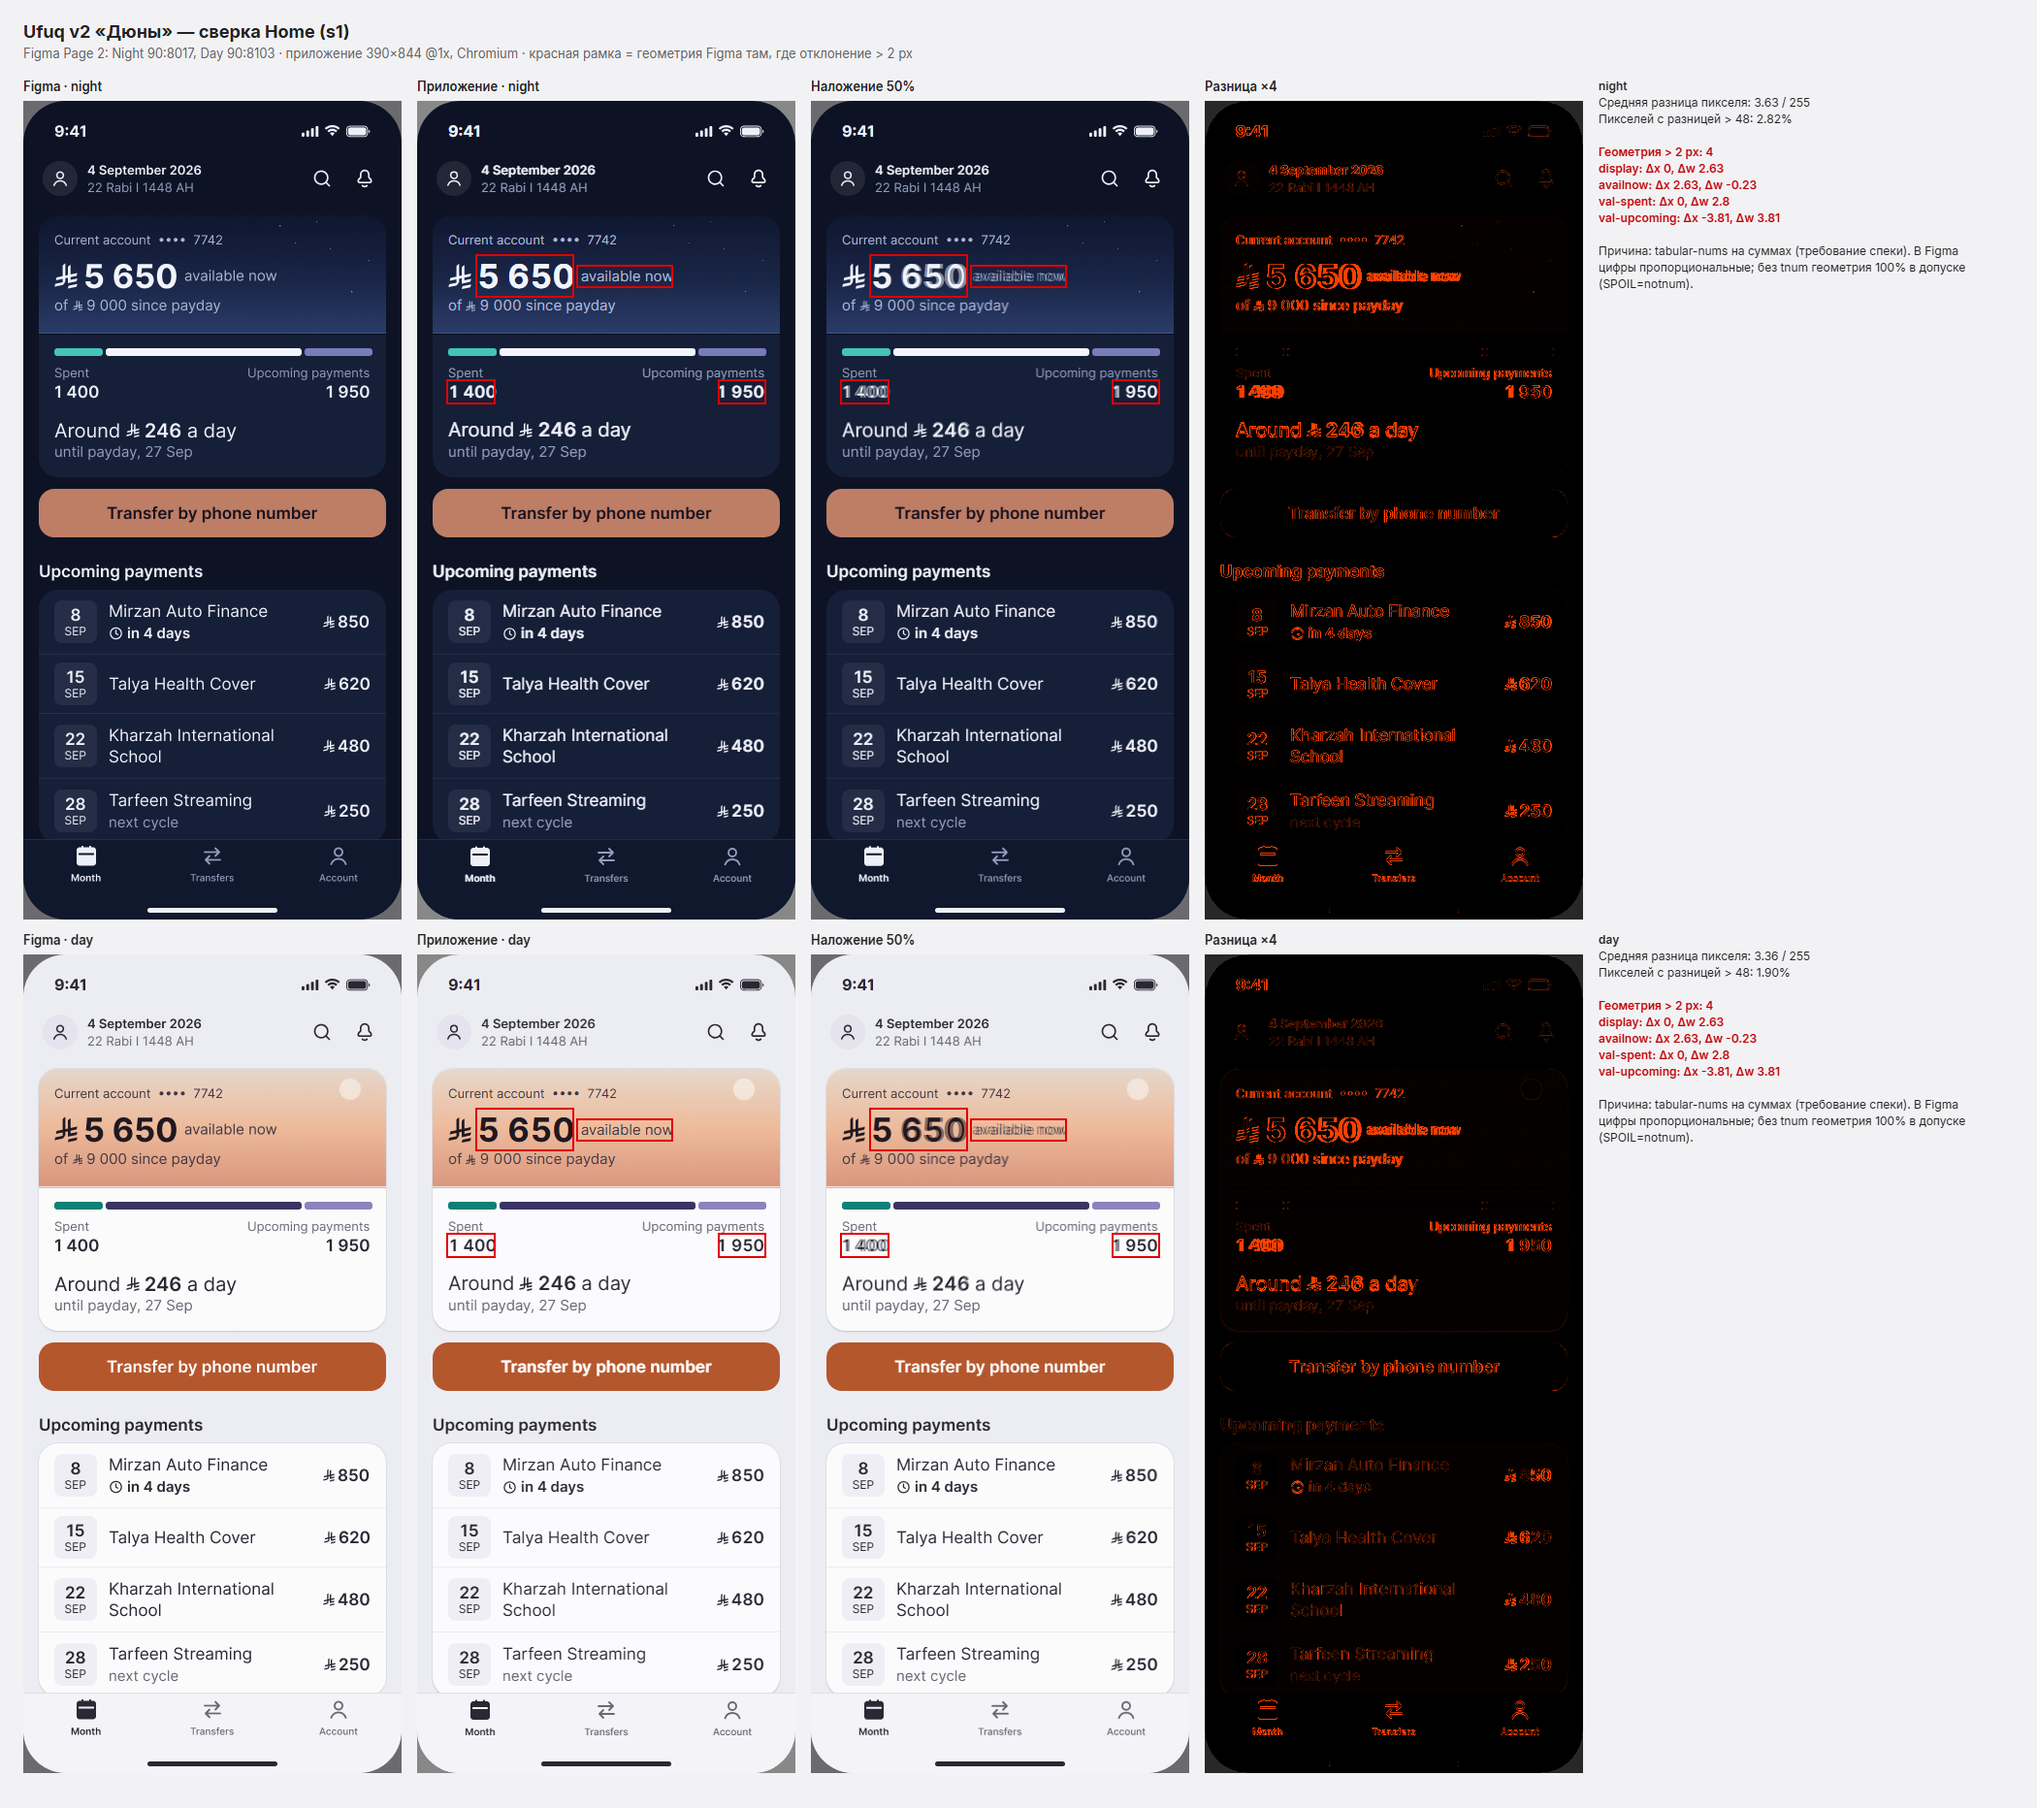
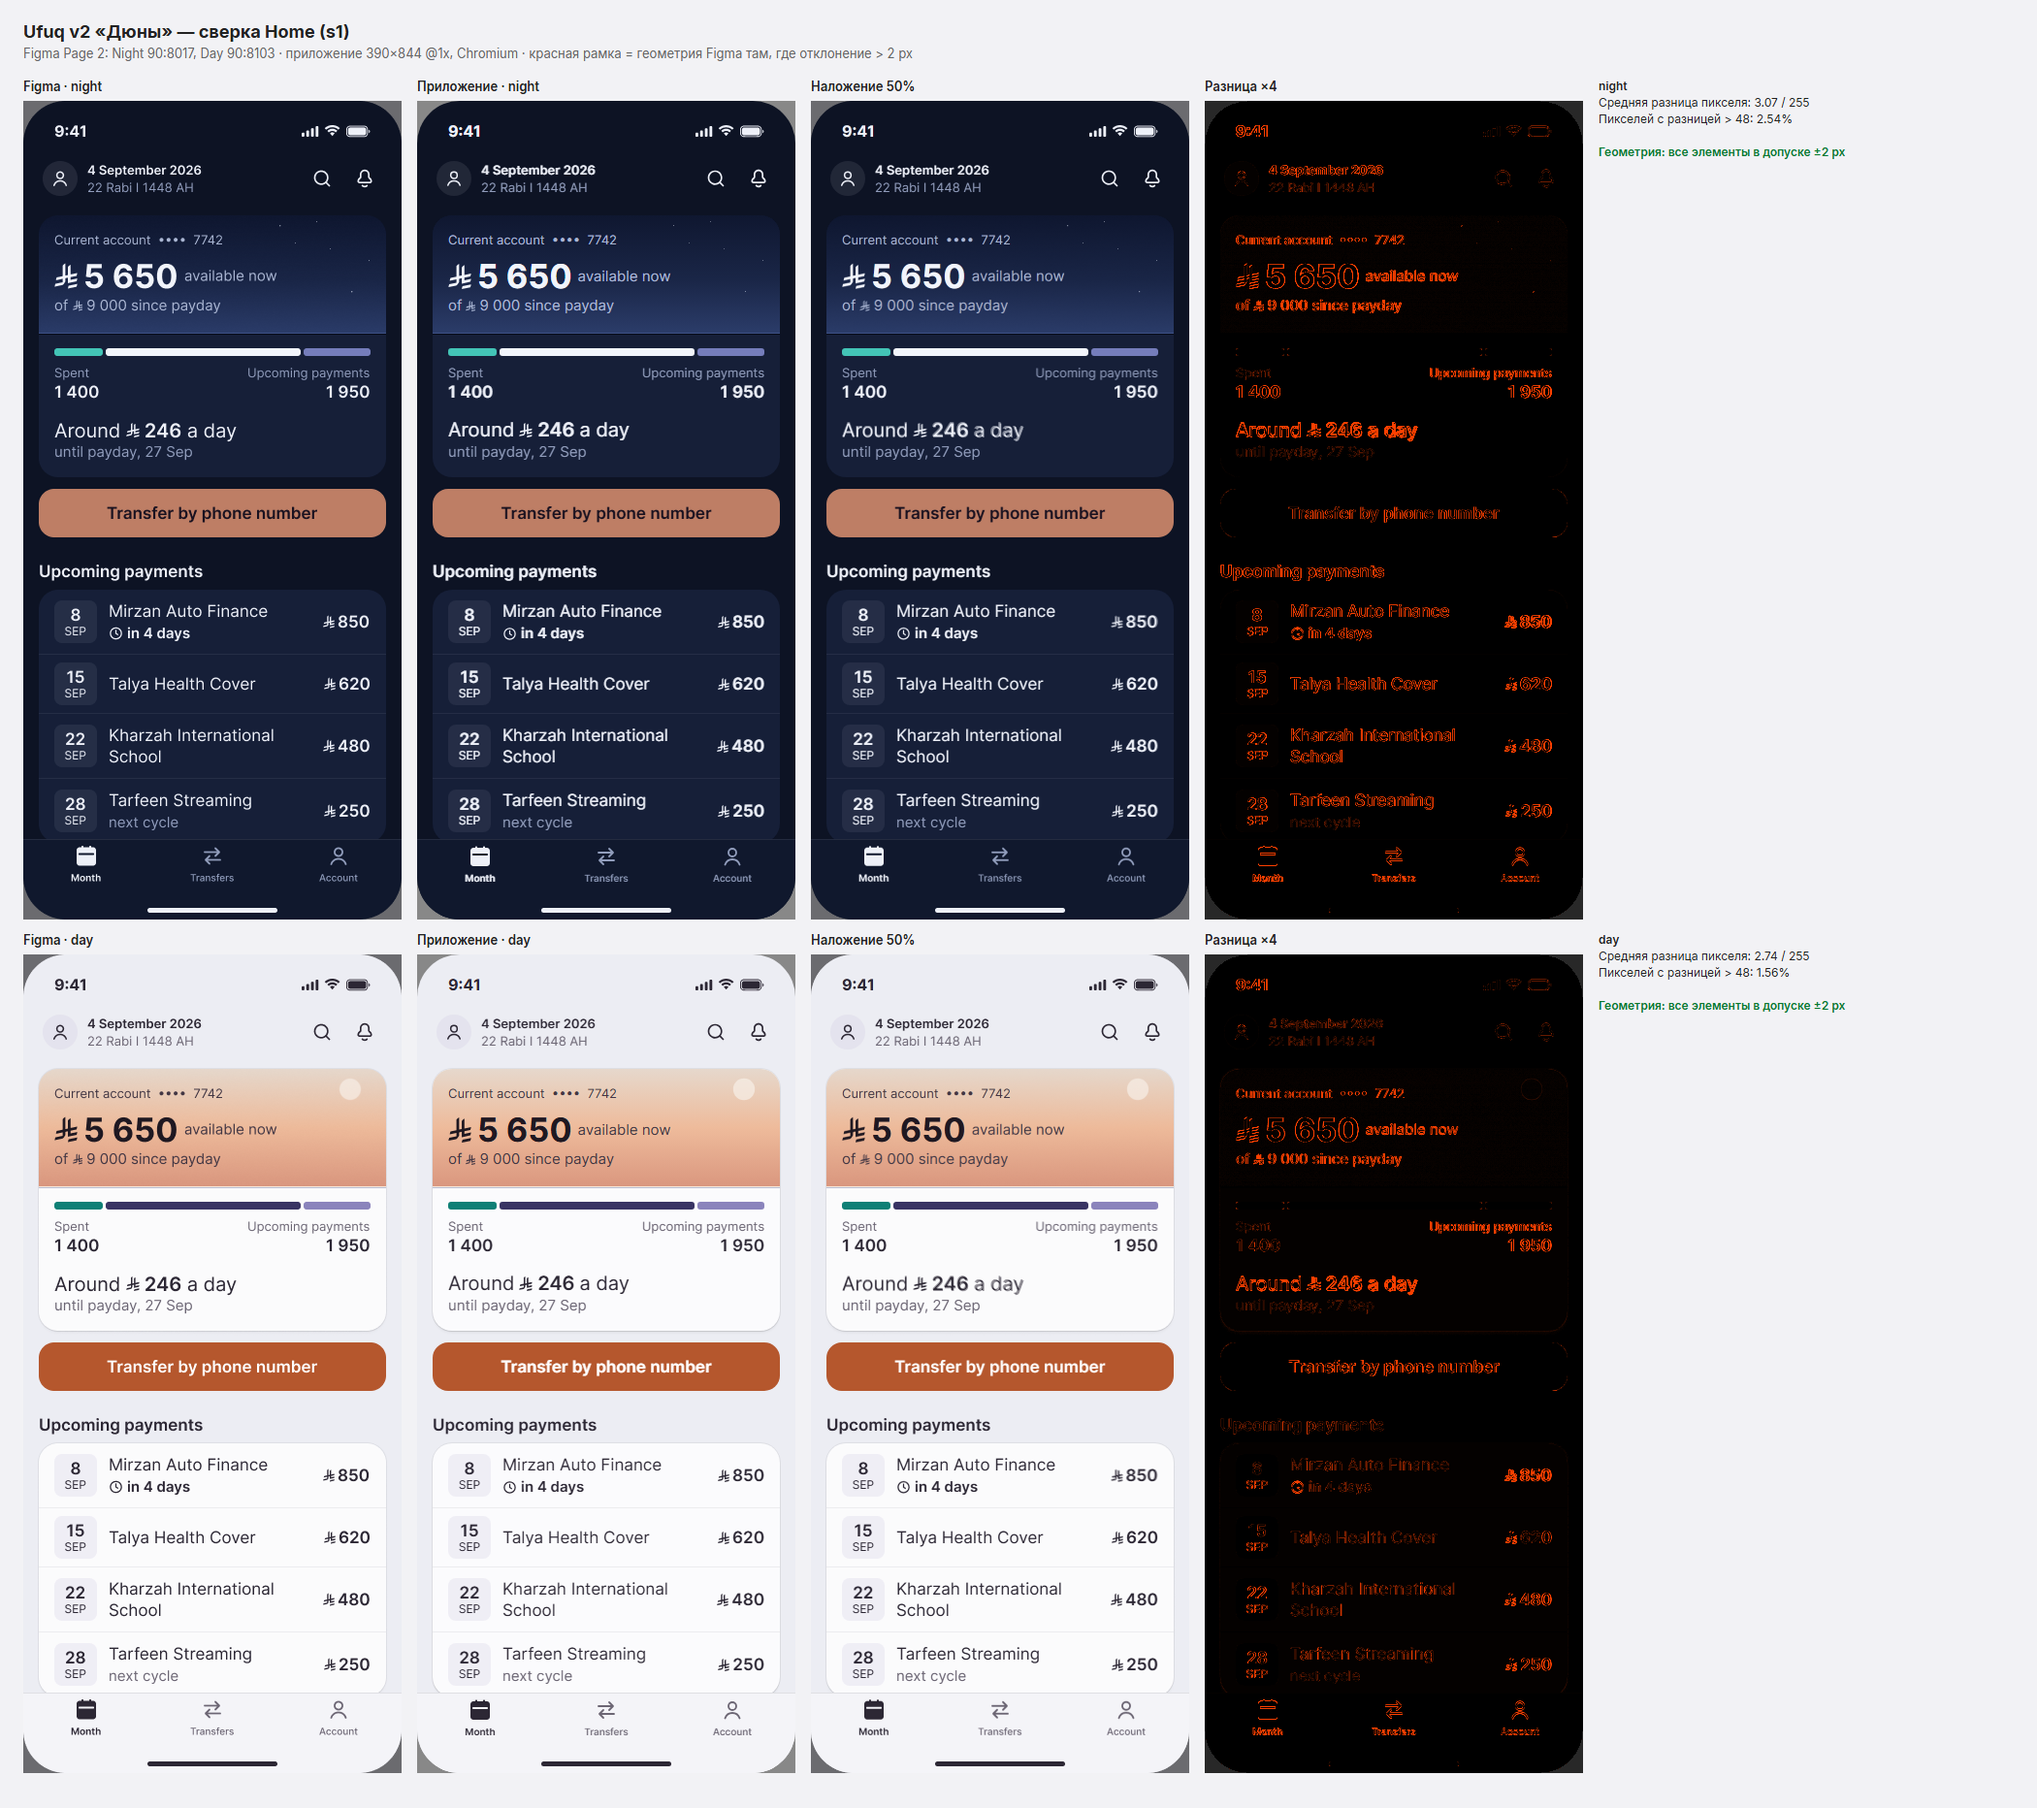
s1-fix: без tabular-nums (Figma главнее), полоса 326 по Figma, страж SPOIL=tnum

diff --git a/index.html b/index.html
@@ -68,13 +68,13 @@
             <span class="t-footnote muted caption" data-k="caption">Current account  ••••  7742</span>
             <div class="amount">
               <svg width="24" height="26" data-k="riyal24" aria-hidden="true"><use href="#i-riyal"/></svg>
-              <span class="t-large num" data-k="display">5 650</span>
+              <span class="t-large" data-k="display">5 650</span>
               <span class="t-sub muted" data-k="availnow">available now</span>
             </div>
             <div class="of-total muted">
               <span class="t-sub" data-k="of">of</span>
               <svg width="10.1538" height="11" data-k="riyal10" aria-hidden="true"><use href="#i-riyal"/></svg>
-              <span class="t-sub" data-k="since"><span class="num">9 000</span> since payday</span>
+              <span class="t-sub" data-k="since"><span>9 000</span> since payday</span>
             </div>
           </div>
 
@@ -92,17 +92,17 @@
             <div class="bar-labels">
               <div class="l-spent">
                 <span class="t-footnote muted" data-k="lbl-spent">Spent</span>
-                <span class="t-headline num" data-k="val-spent">1 400</span>
+                <span class="t-headline" data-k="val-spent">1 400</span>
               </div>
               <div class="l-upcoming">
                 <span class="t-footnote muted" data-k="lbl-upcoming">Upcoming payments</span>
-                <span class="t-headline num" data-k="val-upcoming">1 950</span>
+                <span class="t-headline" data-k="val-upcoming">1 950</span>
               </div>
             </div>
             <div class="phrase">
               <span class="t-title3" data-k="around">Around</span>
               <svg width="13.8462" height="15" data-k="riyal14" aria-hidden="true"><use href="#i-riyal"/></svg>
-              <span class="t-title3-s num" data-k="perday">246</span>
+              <span class="t-title3-s" data-k="perday">246</span>
               <span class="t-title3" data-k="aday">a day</span>
             </div>
             <span class="t-sub until" data-k="until">until payday, 27 Sep</span>
@@ -119,19 +119,19 @@
               <span class="t-body">Mirzan Auto Finance</span>
               <span class="pay-desc"><svg width="15" height="15" aria-hidden="true"><use href="#i-clock"/></svg><span class="t-sub-s">in 4 days</span></span>
             </div>
-            <span class="pay-sum"><svg width="12" height="13" aria-hidden="true"><use href="#i-riyal"/></svg><span class="t-headline num">850</span></span>
+            <span class="pay-sum"><svg width="12" height="13" aria-hidden="true"><use href="#i-riyal"/></svg><span class="t-headline">850</span></span>
           </div>
           <div class="divider"></div>
           <div class="pay" data-k="pay2">
             <div class="date-tile"><b class="t-headline">15</b><span class="t-caption">SEP</span></div>
             <div class="pay-head"><span class="t-body">Talya Health Cover</span></div>
-            <span class="pay-sum"><svg width="12" height="13" aria-hidden="true"><use href="#i-riyal"/></svg><span class="t-headline num">620</span></span>
+            <span class="pay-sum"><svg width="12" height="13" aria-hidden="true"><use href="#i-riyal"/></svg><span class="t-headline">620</span></span>
           </div>
           <div class="divider"></div>
           <div class="pay" data-k="pay3">
             <div class="date-tile"><b class="t-headline">22</b><span class="t-caption">SEP</span></div>
             <div class="pay-head"><span class="t-body">Kharzah International School</span></div>
-            <span class="pay-sum"><svg width="12" height="13" aria-hidden="true"><use href="#i-riyal"/></svg><span class="t-headline num">480</span></span>
+            <span class="pay-sum"><svg width="12" height="13" aria-hidden="true"><use href="#i-riyal"/></svg><span class="t-headline">480</span></span>
           </div>
           <div class="divider"></div>
           <div class="pay" data-k="pay4">
@@ -140,7 +140,7 @@
               <span class="t-body">Tarfeen Streaming</span>
               <span class="pay-desc muted"><span class="t-sub">next cycle</span></span>
             </div>
-            <span class="pay-sum"><svg width="12" height="13" aria-hidden="true"><use href="#i-riyal"/></svg><span class="t-headline num">250</span></span>
+            <span class="pay-sum"><svg width="12" height="13" aria-hidden="true"><use href="#i-riyal"/></svg><span class="t-headline">250</span></span>
           </div>
         </div>
 

diff --git a/app.js b/app.js
@@ -6,8 +6,8 @@ const SPENT = 1400;
 const UPCOMING = 1950;
 const AVAILABLE = OPENING - SPENT - UPCOMING; // 5 650
 
-// Полоса: 322 px под три сегмента + два зазора по 3 = 328, как фрейм Bar в Figma.
-const BAR_SEGMENTS_PX = 322;
+// Полоса: 320 px под три сегмента + два зазора по 3 = 326, как фрейм Bar в Figma.
+const BAR_SEGMENTS_PX = 320;
 
 const BUILT = new Set(['home']);  // какие состояния уже собраны
 

diff --git a/styles.css b/styles.css
@@ -92,7 +92,6 @@
 .t-tab-s      { font: 600 10px/12px Inter; }        /* HIG/Tab bar label 10 Semibold */
 .t-status     { font: 700 16px/1.4 Inter; }         /* Body/16 Bold */
 
-.num { font-variant-numeric: tabular-nums; }
 
 /* ---------- витрина ---------- */
 
